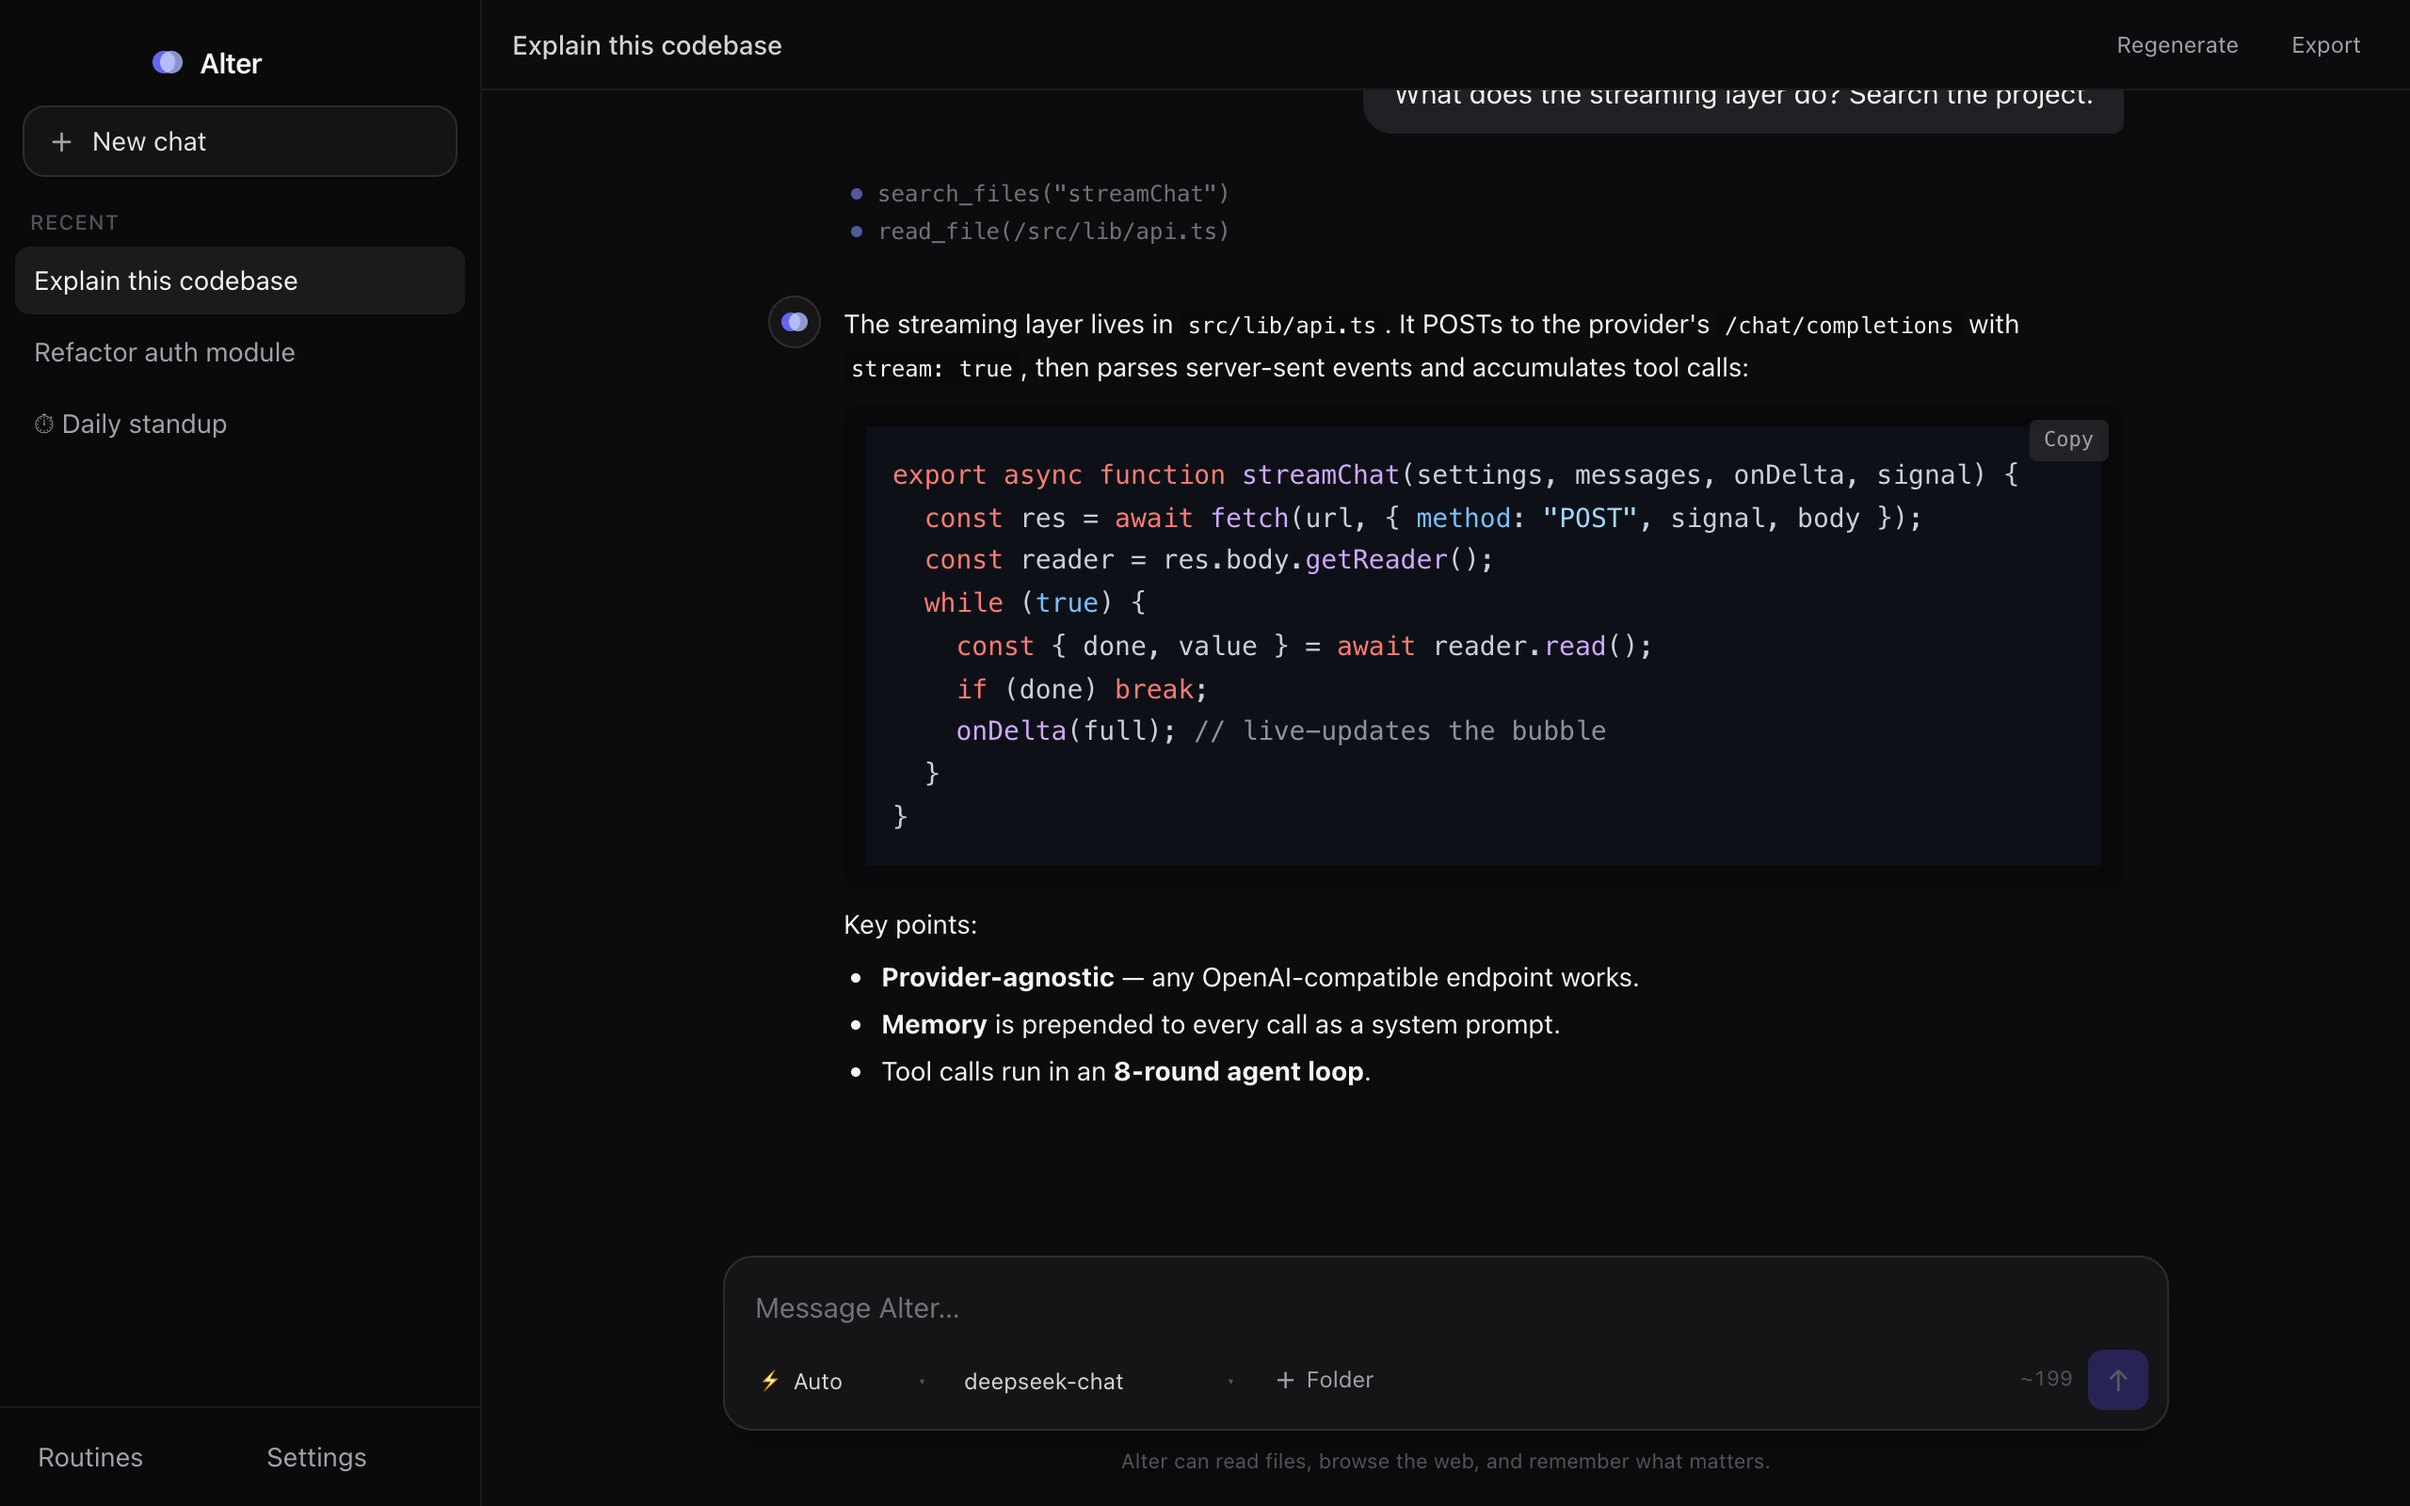
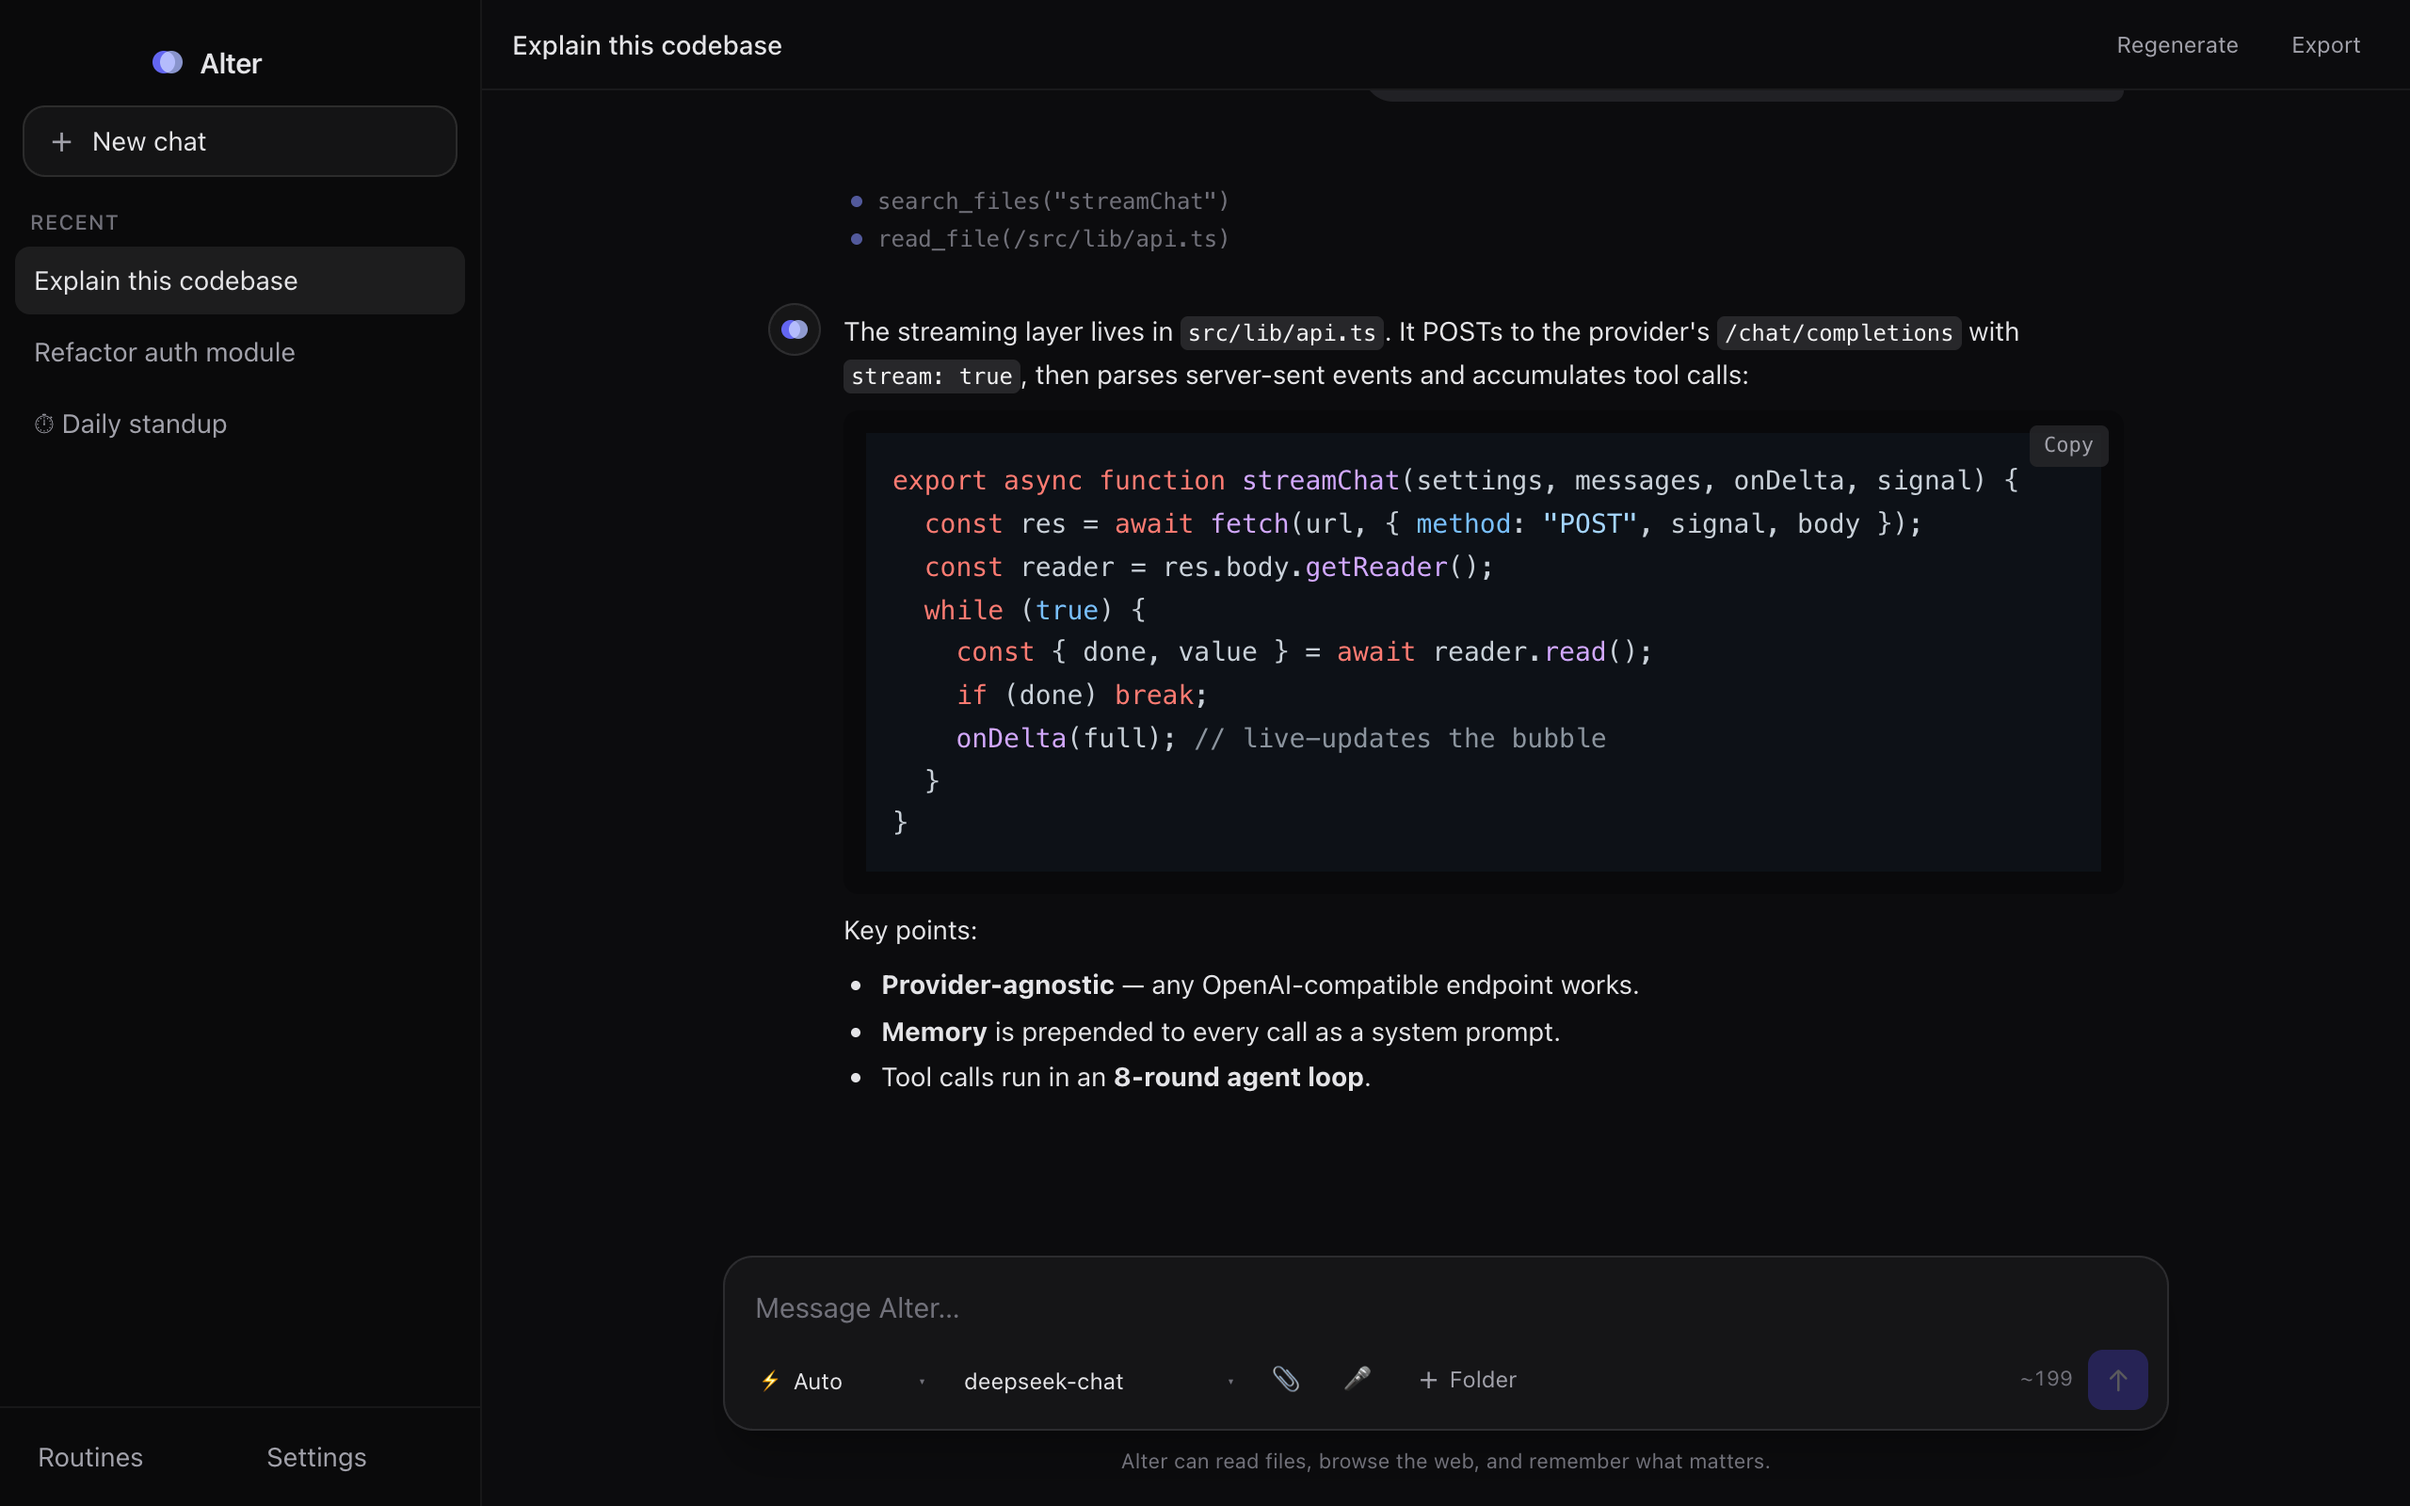
feat: voice dictation (where supported) and README updates
Add a mic button using the Web Speech API, shown only where the platform
supports speech recognition.

diff --git a/src/App.tsx b/src/App.tsx
@@ -45,8 +45,39 @@ export default function App() {
   const [attachments, setAttachments] = useState<Attachment[]>([]);
   const [preview, setPreview] = useState<string | null>(null);
   const [artifact, setArtifact] = useState<ArtifactType | null>(null);
+  const [listening, setListening] = useState(false);
   const abortRef = useRef<AbortController | null>(null);
   const fileInputRef = useRef<HTMLInputElement>(null);
+  const recognitionRef = useRef<{ stop: () => void } | null>(null);
+  const speechSupported =
+    typeof window !== "undefined" &&
+    // @ts-expect-error vendor-prefixed
+    !!(window.SpeechRecognition || window.webkitSpeechRecognition);
+
+  const toggleMic = () => {
+    // @ts-expect-error vendor-prefixed
+    const SR = window.SpeechRecognition || window.webkitSpeechRecognition;
+    if (!SR) return;
+    if (listening) {
+      recognitionRef.current?.stop();
+      return;
+    }
+    const rec = new SR();
+    rec.continuous = false;
+    rec.interimResults = true;
+    rec.lang = "en-US";
+    const base = input;
+    rec.onresult = (e: { results: ArrayLike<ArrayLike<{ transcript: string }>> }) => {
+      let t = "";
+      for (let i = 0; i < e.results.length; i++) t += e.results[i][0].transcript;
+      setInput((base ? base + " " : "") + t);
+    };
+    rec.onend = () => setListening(false);
+    rec.onerror = () => setListening(false);
+    recognitionRef.current = rec;
+    setListening(true);
+    rec.start();
+  };
   const bottomRef = useRef<HTMLDivElement>(null);
 
   const active = conversations.find((c) => c.id === activeId) ?? null;
@@ -645,6 +676,17 @@ export default function App() {
                 >
                   <span className="text-sm leading-none">📎</span>
                 </button>
+                {speechSupported && (
+                  <button
+                    onClick={toggleMic}
+                    className={`flex items-center gap-1 rounded-lg px-2 py-1 text-xs transition-colors ${
+                      listening ? "bg-red-500/20 text-red-300" : "hover:bg-[var(--panel-2)] text-[var(--txt-dim)]"
+                    }`}
+                    title={listening ? "Stop dictation" : "Dictate"}
+                  >
+                    <span className="text-sm leading-none">🎤</span>
+                  </button>
+                )}
                 {folder ? (
                   <div className="flex items-center gap-1.5 rounded-lg bg-[var(--panel)] px-2 py-1 text-xs text-[var(--txt)] max-w-[160px]">
                     <span className="text-[var(--txt-faint)]">📁</span>

diff --git a/README.md b/README.md
@@ -9,10 +9,13 @@ Alter is a small, fast desktop chat app. It talks to any OpenAI-compatible model
 ## Features
 
 - **Bring your own model** — presets for DeepSeek, Moonshot (Kimi), and the Vercel AI Gateway, or point the base URL at any OpenAI-compatible endpoint. Your API key is stored only on your device.
-- **Streaming chat** with markdown rendering, syntax-highlighted code blocks, and copy buttons.
+- **Streaming chat** with markdown, syntax-highlighted code, LaTeX math (KaTeX), copy buttons, and editable messages.
+- **Artifacts** — HTML/SVG the assistant produces opens in a live, sandboxed side-panel preview.
+- **Light & dark themes** — toggle in Settings, remembered across launches.
+- **Voice dictation** where the platform supports it.
 - **Memory** — Alter automatically remembers lasting facts and preferences you share, and carries them into every future conversation. Review or forget any of them in Settings.
 - **File tools** — attach a working folder, then ask Alter to show a file tree, search across files (like grep), read files, or write files (writes ask for confirmation first).
-- **Attachments** — drop in images (for vision-capable models) or text/code files; they're sent along with your message.
+- **Attachments** — drop in images (for vision-capable models), PDFs (text is extracted), or text/code files; click an image to view it full-size.
 - **Chat search** — filter conversations by title or message content from the sidebar.
 - **Modes** — choose how Alter uses tools: **Auto** (acts freely, writes ask first), **Ask first** (confirm every action), **Plan** (describes what it would do without acting), or **Chat only** (no tools).
 - **Shows its work** — every file read, search, web fetch, or write appears as a step in the conversation as Alter takes it.
